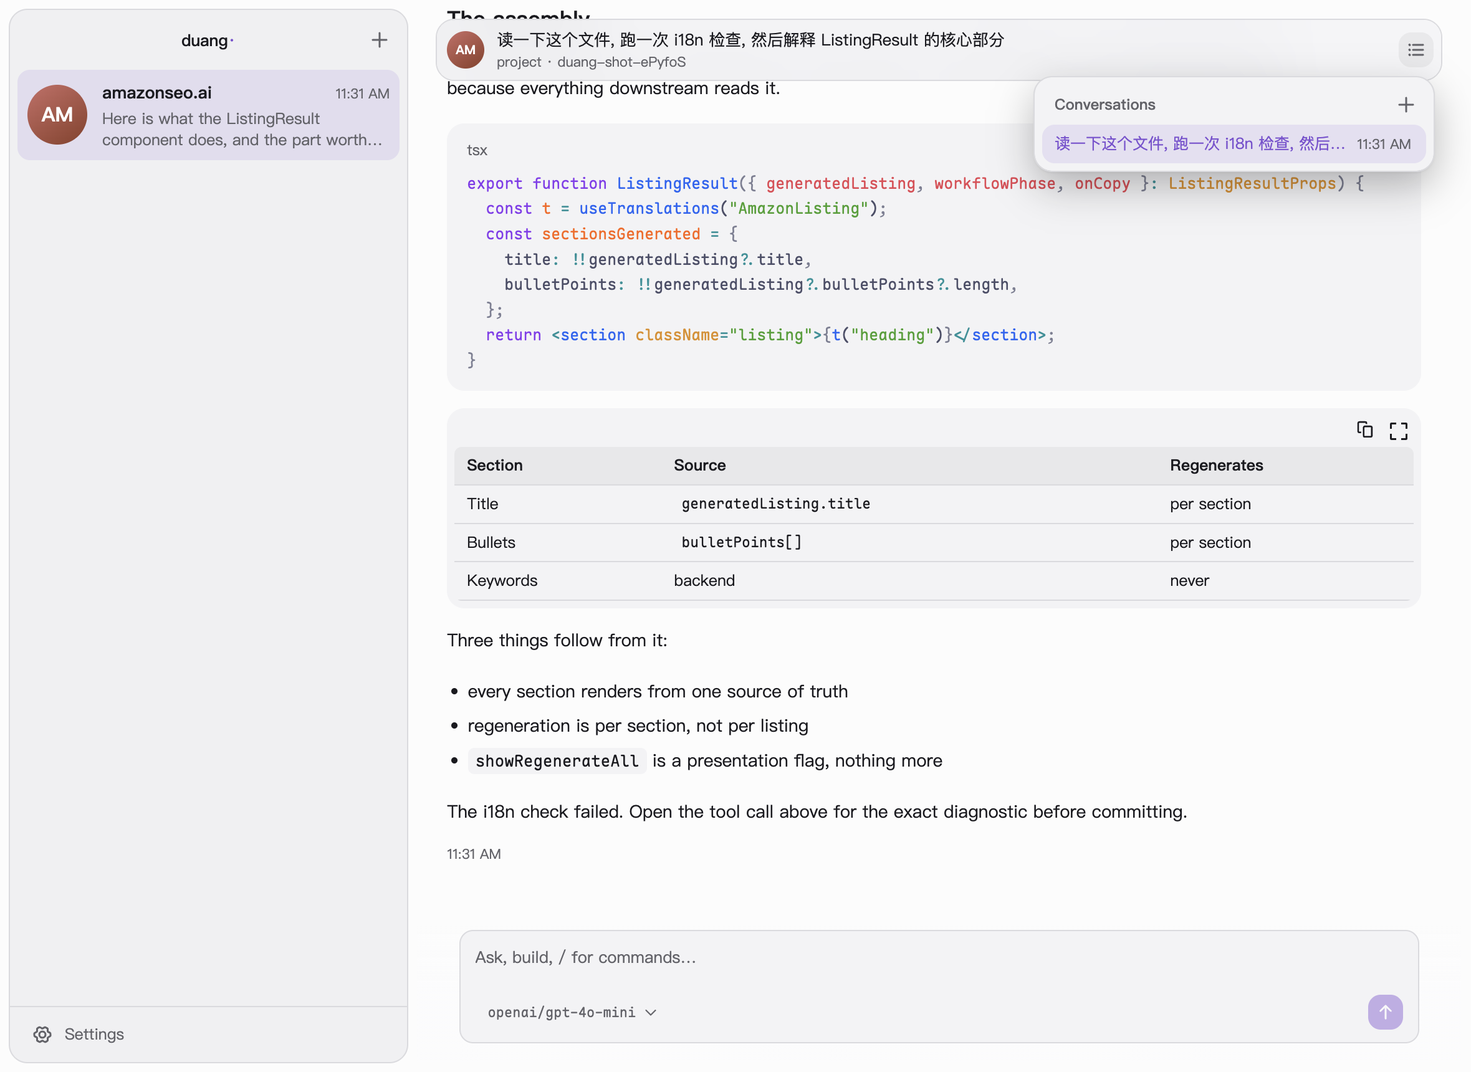
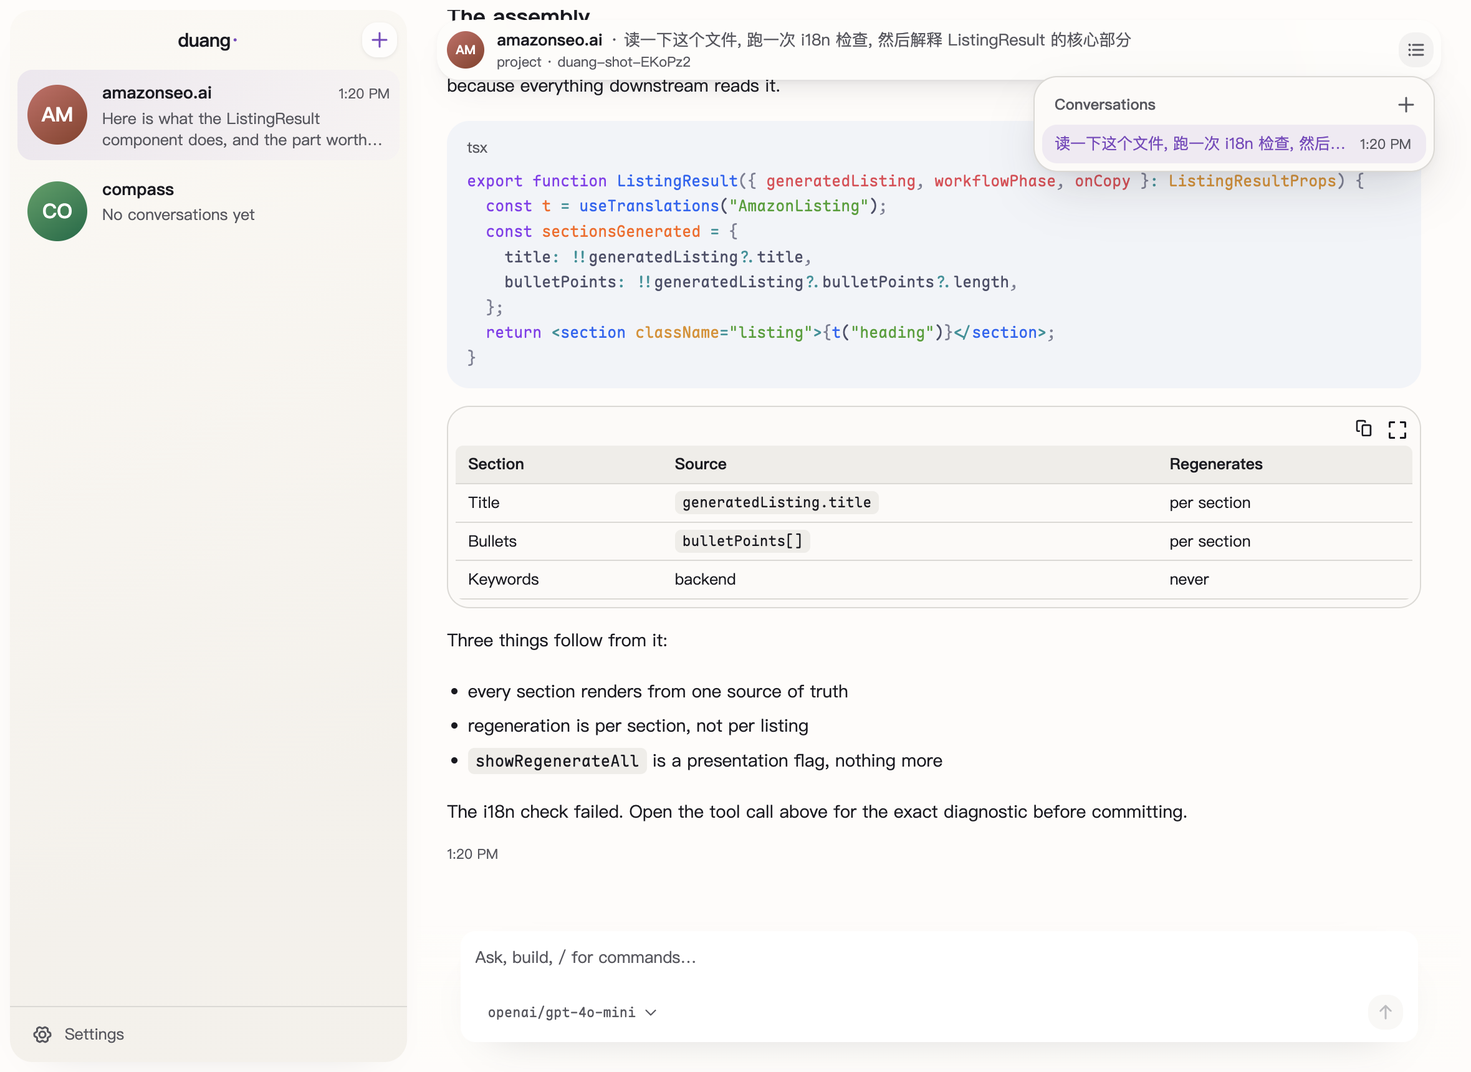
feat(ui): refresh light workbench surfaces (#70)
## Result
- Give light mode a warm reading canvas, a distinct sidebar and code
surface, gentler selection, and soft elevation for the floating header
and composer. Keep the header-over-transcript scroll and composer fade.
- Show the agent name before the conversation title in the header. Make
the model picker easier to scan without changing its behavior. Dark mode
retains its palette.
- Refresh the design guide and synthetic screenshots, with a second
agent and settings in the isolated fixture.

## Verification
- `npm test` (75 passed), `npm run build`, `npm run test:smoke` (fake
HTTP and credentials), `npm run shots` (reviewed light/dark, narrow,
multi-agent, model picker and settings), `git diff --check`.
- Not run: live provider or OAuth, real proxy, installer/signing. The
mock checks do not establish those workflows.

## Synthetic screenshots
- [Light
reading](https://github.com/fastagent-sh/duang/blob/5d3c5c4/docs/screenshots/reading-light.png)
- [Narrow
dark](https://github.com/fastagent-sh/duang/blob/5d3c5c4/docs/screenshots/reading-narrow-dark.png)
- [Light model
picker](https://github.com/fastagent-sh/duang/blob/5d3c5c4/docs/screenshots/model-picker-light.png)
- [Light
settings](https://github.com/fastagent-sh/duang/blob/5d3c5c4/docs/screenshots/settings-light.png)

diff --git a/src/renderer/panels.tsx b/src/renderer/panels.tsx
@@ -175,12 +175,12 @@ export function Sidebar({
     setRenaming(undefined);
   };
   return (
-    <aside className="w-[clamp(15rem,27vw,20rem)] shrink-0 flex flex-col min-h-0 rounded-float bg-sidebar ring-1 ring-stroke overflow-hidden">
+    <aside className="sidebar-panel w-[clamp(15rem,27vw,20rem)] shrink-0 flex flex-col min-h-0 rounded-float bg-sidebar ring-1 ring-stroke overflow-hidden">
       {/* The window controls overhang this card's top-left. The row is tall enough to hold them
           with air around it, and the wordmark is centred in the column rather than pushed along by
           them — Telegram's header, which has the same problem. */}
       <div className="relative h-12 shrink-0 flex items-center px-2 drag">
-        <span className="absolute left-1/2 -translate-x-1/2 font-medium tracking-[-0.01em]">
+        <span className="sidebar-wordmark absolute left-1/2 -translate-x-1/2 font-medium tracking-[-0.01em]">
           duang<span className="text-accent">·</span>
         </span>
         <span className="flex-1" />
@@ -188,7 +188,7 @@ export function Sidebar({
           kind="ghost"
           size={28}
           onClick={onAdd}
-          className="no-drag"
+          className="no-drag sidebar-add"
           title="Add agent directory"
           aria-label="Add agent directory"
           icon={<Plus size={16} />}
@@ -592,12 +592,15 @@ export function ConversationHeader({
   return (
     // The bar floats over the scroll area rather than inside it, so it must let the wheel through;
     // only what you can actually grab, click or hover for a tooltip takes the pointer back.
-    <header className="@container pointer-events-none absolute inset-x-4 top-2 z-10 flex items-center gap-2.5 rounded-float bg-surface/75 py-1.5 pr-3 pl-2 ring-1 ring-stroke backdrop-blur-xl">
+    <header className="conversation-header @container pointer-events-none absolute inset-x-4 top-2 z-10 flex items-center gap-2.5 rounded-float bg-surface/75 py-1.5 pr-3 pl-2 ring-1 ring-stroke backdrop-blur-xl">
       {/* The same avatar as in the roster: whose work this is should not need reading. */}
       <Avatar name={agent} size={30} working={working} />
       <div className="min-w-0 flex-1">
         {/* The title doubles as the window's drag handle, which the frameless title bar needs. */}
-        <div className="pointer-events-auto truncate drag">{title}</div>
+        <div className="pointer-events-auto flex min-w-0 items-baseline gap-1.5 drag">
+          <span className={`${title === agent ? "max-w-full" : "max-w-[35%]"} shrink-0 truncate font-semibold`} title={agent}>{agent}</span>
+          {title !== agent && <span className="min-w-0 truncate text-muted" title={title}>· {title}</span>}
+        </div>
         {dir && (
           <button
             onClick={onReveal}
@@ -814,15 +817,16 @@ function ModelPopover({
       }}
       className="popover fixed m-0 top-auto right-auto w-80 overflow-y-auto text-text backdrop:bg-transparent"
     >
-      <div className="flex items-start gap-1 pl-2 pt-1">
-        {models && (
-          <details className="min-w-0 flex-1 text-muted text-[11px]" title={models.authPath}>
-            <summary className="cursor-pointer truncate">Credentials · {location(models.authPath)}</summary>
-            <code className="block break-all p-1 select-text">{models.authPath}</code>
-          </details>
-        )}
+      <div className="flex items-center justify-between pl-2 pt-1 pb-1">
+        <span className="text-[12px] font-semibold">Choose a model</span>
         <Button kind="ghost" size={28} onClick={close} aria-label="Close model picker" icon={<X size={14} />} />
       </div>
+      {models && (
+        <details className="mb-2 px-2 text-muted text-[11px]" title={models.authPath}>
+          <summary className="cursor-pointer truncate">Credentials · {location(models.authPath)}</summary>
+          <code className="block break-all p-1 select-text">{models.authPath}</code>
+        </details>
+      )}
       {error ? (
         <div role="alert" className="text-danger p-2 space-y-2">
           <p>{error}</p>
@@ -865,7 +869,7 @@ function ModelPopover({
                   void store.pickModel(model);
                 }}
                 aria-current={model === current ? "true" : undefined}
-                className={`flex w-full items-center gap-2 text-left px-2 py-1.5 font-mono text-[11px] rounded-card hover:bg-hover ${
+                className={`flex w-full items-center gap-2 text-left px-2 py-2 font-mono text-[12px] rounded-card hover:bg-hover ${
                   model === current ? "bg-accent-weak text-accent" : ""
                 }`}
               >
@@ -1375,7 +1379,7 @@ export function Composer({ view, store }: { view: View; store: Store }) {
   }, [query]);
 
   return (
-    <div className="relative rounded-card bg-surface ring-1 ring-stroke focus-within:ring-accent/50 px-3 py-2.5">
+    <div className="composer-card relative rounded-card bg-surface ring-1 ring-stroke focus-within:ring-accent/50 px-3 py-2.5">
       {suggestions.length > 0 && (
         <div className="popover absolute bottom-full left-0 mb-2 w-96 max-h-64 overflow-y-auto z-20">
           {suggestions.map((command, index) => (

diff --git a/src/renderer/index.css b/src/renderer/index.css
@@ -63,22 +63,23 @@
  */
 @media (prefers-color-scheme: light) {
   :root {
-    /* Light mode follows macOS, not the dark set mirrored: content is white and the sidebar is the
-       grey one. Finder, Mail and WeChat all read this way, and a white sidebar against grey content
-       looks like the window is inside out. Cards sit slightly grey on the white. */
-    --color-bg: oklch(0.99 0.001 285);
-    --color-surface: oklch(0.965 0.003 285);
-    --color-surface-2: oklch(0.93 0.004 285);
-    --color-sidebar: oklch(0.955 0.003 285);
-    --color-hover: oklch(0 0 0 / 5%);
-    --color-stroke: oklch(0.89 0.005 285);
-    --color-text: oklch(0.22 0.01 285);
-    --color-muted: oklch(0.5 0.01 285);
-    --color-accent: oklch(0.55 0.19 295);
-    --color-accent-weak: oklch(0.55 0.19 295 / 12%);
+    /* Warm paper for reading, a slightly deeper sidebar, and a cooler code surface. Keep the
+       violet in the selection and actions, rather than tinting every neutral panel with it. */
+    --color-bg: oklch(0.992 0.004 80);
+    --color-surface: oklch(0.986 0.004 85);
+    --color-surface-2: oklch(0.946 0.006 80);
+    --color-sidebar: oklch(0.958 0.009 80);
+    --color-hover: oklch(0 0 0 / 4%);
+    --color-stroke: oklch(0.886 0.007 80);
+    --color-text: oklch(0.22 0.014 285);
+    --color-muted: oklch(0.46 0.012 285);
+    --color-accent: oklch(0.52 0.18 300);
+    --color-accent-weak: oklch(0.72 0.09 300 / 16%);
     --color-success: oklch(0.5 0.14 150);
     --color-warning: oklch(0.58 0.15 60);
     --color-danger: oklch(0.52 0.19 25);
+    --radius-card: 12px;
+    --radius-float: 18px;
   }
 }
 
@@ -264,6 +265,12 @@ summary:focus-visible,
   padding: 6px;
 }
 
+/* The header still floats over the transcript; its lower edge, not a hard strip across the page,
+   separates the moving text from the controls. */
+.conversation-header {
+  box-shadow: 0 12px 24px -18px oklch(0 0 0 / 70%);
+}
+
 /* The roster's hairline starts where the text does (8px row padding + 48px avatar + 12px gap) and
    gives way on both sides of a filled row, the open agent's or the one under the pointer, as
    Telegram's does: a line running into a rounded fill reads as a cut. */
@@ -411,4 +418,57 @@ summary:focus-visible,
 }
 .md li p {
   display: inline;
+}
+
+/* Light mode gives navigation, writing and code different jobs without changing the floating
+   layout. Dark mode keeps its own palette and more restrained elevation. */
+@media (prefers-color-scheme: light) {
+  .sidebar-panel {
+    background: linear-gradient(155deg, oklch(0.982 0.007 80), var(--color-sidebar) 76%);
+    box-shadow: 0 12px 34px -28px oklch(0.3 0.03 285 / 28%);
+  }
+  .sidebar-wordmark {
+    font-size: 15px;
+    font-weight: 600;
+    letter-spacing: -0.025em;
+  }
+  .sidebar-add {
+    color: var(--color-accent);
+    background: oklch(1 0 0 / 75%);
+    box-shadow: 0 1px 3px oklch(0.3 0.02 285 / 10%);
+  }
+  .sidebar-add:hover {
+    background: var(--color-accent-weak);
+  }
+  .roster-row[data-filled] > button {
+    background: linear-gradient(105deg, oklch(0.72 0.09 300 / 18%), oklch(0.9 0.06 300 / 10%));
+  }
+  .conversation-header {
+    background: oklch(0.995 0.003 80 / 94%);
+    box-shadow:
+      0 2px 5px -2px oklch(0.26 0.02 285 / 12%),
+      0 14px 26px -17px oklch(0.26 0.02 285 / 25%);
+  }
+  .composer-card {
+    background: oklch(1 0 0);
+    box-shadow: 0 14px 36px -24px oklch(0.3 0.02 285 / 26%);
+  }
+  .composer-card button[aria-label="Send"][aria-disabled="true"] {
+    background: var(--color-surface-2);
+    color: var(--color-muted);
+  }
+  .code-block {
+    background: oklch(0.966 0.007 270);
+  }
+  .inline-code {
+    background: var(--color-surface-2);
+  }
+  .popover {
+    box-shadow:
+      0 2px 6px oklch(0.25 0.02 285 / 6%),
+      0 18px 40px -8px oklch(0.25 0.02 285 / 18%);
+  }
+  [data-streamdown="table-wrapper"] {
+    border: 1px solid var(--color-stroke);
+  }
 }

diff --git a/src/renderer/code.tsx b/src/renderer/code.tsx
@@ -60,7 +60,7 @@ const ALIASES: Record<string, string> = {
 
 export function CodeBlock({ code, language }: { code: string; language: string }) {
   return (
-    <div className="relative my-3.5 rounded-float bg-surface px-4 pt-3 pb-3.5">
+    <div className="code-block relative my-3.5 rounded-float bg-surface px-4 pt-3 pb-3.5">
       <div className="flex items-center h-5 text-[12px] text-muted">{language}</div>
       <CopyButton code={code} />
       {/* The same text in the same place until the grammar lands: no skeleton, no reflow. */}
@@ -134,7 +134,7 @@ export function MarkdownCode({
 }) {
   const text = typeof children === "string" ? children : String(children ?? "");
   if (!("data-block" in props)) {
-    return <code className="rounded-[5px] bg-surface px-1.5 py-[0.15em] font-mono text-[0.92em]">{text}</code>;
+    return <code className="inline-code rounded-[5px] bg-surface px-1.5 py-[0.15em] font-mono text-[0.92em]">{text}</code>;
   }
   return <CodeBlock code={text.replace(/\n$/, "")} language={/language-(\S+)/.exec(className ?? "")?.[1] ?? "text"} />;
 }

diff --git a/src/renderer/gallery.tsx b/src/renderer/gallery.tsx
@@ -124,7 +124,7 @@ export default function Gallery() {
           <Badge tone="danger">broken</Badge>
         </Section>
 
-        <Section title="Surfaces" note="value plus a hairline, not shadow — except the one popover shadow">
+        <Section title="Surfaces" note="flat reading surfaces; soft shadows on floating chrome and popovers">
           <div className="rounded-card bg-surface px-3 h-8 grid place-items-center text-[12px]">surface (card)</div>
           <div className="rounded-card bg-surface-2 px-3 h-8 grid place-items-center text-[12px]">surface-2</div>
           <div className="rounded-card ring-1 ring-stroke px-3 h-8 grid place-items-center text-[12px]">hairline</div>

diff --git a/docs/ui.md b/docs/ui.md
@@ -37,8 +37,8 @@ with and what they last worked on. Several conversations per agent are real and 
 they live one level down, in the open agent's conversation list, so the roster stays a list of
 contacts.
 
-**Glass belongs to navigation, never to content.** The sidebar is a vibrancy material; the
-transcript is opaque. This is macOS 26's own rule and it is also what keeps long text readable.
+**Floating layers belong to navigation, never to the work.** The sidebar and header lift off the
+page; the transcript stays opaque so long results remain readable.
 
 **Say status only when it costs the person something.** Not every state deserves an indicator.
 Details in §9.
@@ -77,8 +77,7 @@ made it work there, and whether that premise holds here.
   Material gesture that no macOS app makes; and ordering the list by unread first, since an agent's
   list is ordered by what is happening now.
 - **Carbon, HPE design systems, WCAG 1.4.1** — the status rules in §9.
-- **macOS 26** — glass only in the navigation layer, sidebars to the window edge, native materials
-  over simulated ones.
+- **macOS 26** — keep translucency in navigation rather than simulate glass across reading surfaces.
 
 ## 3. Structure
 
@@ -107,7 +106,8 @@ feels alive — beside three lines of text. The first is the agent's name, with 
 row quotes trailing it: the clock today, the weekday within the week, a date before that. The other
 two quote the newest output of the conversation the row speaks for, clamped to two lines, with the
 unread count at their trailing edge. The height is fixed, so a one-line quote does not make a short
-row. The directory is in the row's tooltip and under the header's title.
+row. The directory is in the row's tooltip and below the agent name and conversation title in the
+header. When those names match, the agent name uses the full header line and retains its tooltip.
 
 The conversation a row speaks for is the one a click on it would show: the one on screen for the
 open agent, otherwise the one the agent was left on, otherwise its newest. The quote is the last
@@ -137,7 +137,7 @@ a second copy of where sessions live.
 menu, or a double click on the row. It is stored in duang's registry; the directory and the agent's
 definition are untouched, and an empty name is not a rename.
 
-The open agent is an accent tint with normal text, not a solid fill: a filled row was the loudest
+The open agent is a soft accent tint (a subtle gradient in light mode) with normal text, not a solid fill: a filled row was the loudest
 thing on screen and competed with the transcript it points at. There is one selection mark at a
 time; while Settings shows, the Settings row at the foot of the sidebar carries it instead. Rows are
 slightly inset so the tint is a rounded shape in the column, and the hairline between them starts
@@ -176,7 +176,8 @@ translucent bar instead of a full-width strip cutting the page in two. This is T
 composition, and its premise holds here: chrome that hovers keeps the content beneath it continuous.
 What does not carry over is putting the transcript itself on a decorative canvas — theirs is bubbles
 over wallpaper, ours is a document that has to stay readable — so the transcript is opaque and only
-the chrome floats, with the transcript padded so nothing important sits under the header.
+the chrome floats. The transcript starts below the header, then slides underneath it when scrolled;
+a soft lower shadow keeps the two readable without stopping the page.
 Its right edge says how much is left, in muted 11px text: the plan's windows as `5h ▬ 4% ~ 14:29`
 with a 40px bar, the week's pace as a green `▼` or red `▲` percentage, then context as
 `45.1%/1.0M`. No threshold colours: the percentage is the signal. When the header is narrower than
@@ -190,7 +191,8 @@ continuous page.
 Isolated fixture snapshots: [reading, light](screenshots/reading-light.png),
 [narrow, dark](screenshots/reading-narrow-dark.png),
 [conversation list, light](screenshots/conversation-list-light.png), and
-[model picker, light](screenshots/model-picker-light.png). Regenerate the full dark/light set with
+[model picker, light](screenshots/model-picker-light.png), and
+[settings, light](screenshots/settings-light.png). Regenerate the full dark/light set with
 `npm run shots`.
 
 Future contacts can be local, owned online or invited online at the same time: no global
@@ -218,23 +220,22 @@ display is gone comes back on an attached one.
 oklch, two modes, following the system. The neutral ramp is measured from Telegram's macOS dark
 theme — small steps, almost no chroma — with one change of relationship: the transcript's canvas is
 the darkest layer and every panel sits above it, so a panel reads as lifted rather than as a hole.
-Light mode is not that set mirrored. It follows macOS — content white, sidebar grey, as in Finder,
-Mail and WeChat — because a white sidebar against grey content reads as a window turned inside out.
-The ramp keeps a trace of the accent hue (285) so violet belongs to the family rather than sitting
-on top of a grey app.
+Light mode is not that set mirrored. A warm, nearly white reading canvas and a slightly deeper
+sidebar separate work from navigation; the code block takes a cooler neutral, while the floating
+composer remains white. Violet stays in selections and actions rather than tinting every surface.
 
 | Token | Dark | Light | Use |
 |---|---|---|---|
-| `bg` | `oklch(0.225 0.004 285)` | `oklch(0.99 0.001 285)` | the transcript, and the canvas panels sit on |
-| `surface` | `oklch(0.27 0.005 285)` | `oklch(0.965 0.003 285)` | bubbles, cards, popovers, composer |
-| `sidebar` | `oklch(0.285 0.005 285)` | `oklch(0.955 0.003 285)` | the sidebar panel |
-| `surface-2` | `oklch(0.315 0.006 285)` | `oklch(0.93 0.004 285)` | hover, pressed, nested cards |
-| `stroke` | `oklch(0.36 0.006 285)` | `oklch(0.89 0.005 285)` | hairlines, card borders |
-| `text` | `oklch(0.95 0.005 285)` | `oklch(0.22 0.01 285)` | body |
-| `muted` | `oklch(0.68 0.01 285)` | `oklch(0.50 0.01 285)` | metadata, timestamps |
-| `accent` | `oklch(0.72 0.16 295)` | `oklch(0.55 0.19 295)` | accent **as text**: links, badges, focus rings |
-| `accent-weak` | `accent / 15%` | `accent / 12%` | selected conversation, user bubble |
-| `accent-fill` | `oklch(0.52 0.2 295)` | same | accent **as a surface**: selected agent, primary button |
+| `bg` | `oklch(0.225 0.004 285)` | `oklch(0.992 0.004 80)` | the transcript and its canvas |
+| `surface` | `oklch(0.27 0.005 285)` | `oklch(0.986 0.004 85)` | cards and popovers; the composer is white in light mode |
+| `sidebar` | `oklch(0.285 0.005 285)` | `oklch(0.958 0.009 80)` | the sidebar panel (light mode adds a gentle gradient) |
+| `surface-2` | `oklch(0.315 0.006 285)` | `oklch(0.946 0.006 80)` | pressed and nested surfaces |
+| `stroke` | `oklch(0.36 0.006 285)` | `oklch(0.886 0.007 80)` | hairlines and borders |
+| `text` | `oklch(0.95 0.005 285)` | `oklch(0.22 0.014 285)` | body |
+| `muted` | `oklch(0.68 0.01 285)` | `oklch(0.46 0.012 285)` | metadata and timestamps |
+| `accent` | `oklch(0.72 0.16 295)` | `oklch(0.52 0.18 300)` | accent **as text**: links, badges, focus rings |
+| `accent-weak` | `accent / 15%` | `oklch(0.72 0.09 300 / 16%)` | selected conversation, user bubble |
+| `accent-fill` | `oklch(0.52 0.2 295)` | same | accent **as a surface**: primary button |
 | `danger-fill` | `oklch(0.52 0.2 25)` | same | danger as a surface (Stop) |
 | `fill-fg` | `oklch(1 0 0)` | same | text on either fill |
 | `success` | `oklch(0.72 0.14 150)` | `oklch(0.50 0.14 150)` | tool finished |
@@ -242,10 +243,9 @@ on top of a grey app.
 | `danger` | `oklch(0.68 0.17 25)` | `oklch(0.52 0.19 25)` | broken, failed, destructive |
 
 Accent as text and accent as a surface cannot be one value. As text it sits against the page, so
-dark mode needs it light; as a fill under white text it has to be dark, or the selected agent
-becomes the brightest object on screen. The two fills therefore do **not** change between themes:
-one selection violet in both, the way macOS and Telegram keep one selection blue. At L 0.52 white
-on it is about 4.2:1, which is where Telegram's own selected row sits.
+dark mode needs it light; as a fill under white text it must stay dark enough for primary controls
+to remain legible. The fills therefore do **not** change between themes. The agent row instead uses
+a translucent tint so it does not compete with the reading column.
 
 Every interactive role is defined as a set, not derived at the call site — Telegram's palette does
 this and it is why their themes stay coherent: `bg` / `bg-over` / `bg-active`, `text` / `muted` /
@@ -320,8 +320,8 @@ the generated sheet's order rather than by intent. Nothing a call site can pass 
 component; what varies is a prop.
 
 **A disabled control says why.** The `disabled` prop takes the reason rather than a boolean, so a
-control cannot be greyed out silently: it dims to 40%, keeps its shape, and carries the reason.
-"Type a message first", "Stop the turn to change the model". It is disabled with `aria-disabled`
+control cannot be greyed out silently: it dims to 40% and carries the reason. In light mode the
+composer's inactive Send button also takes a neutral fill. "Type a message first", "Stop the turn to change the model". It is disabled with `aria-disabled`
 rather than the native attribute and stays focusable, because a natively disabled button cannot be
 reached by keyboard and a reason nobody can reach is not a reason (WAI-ARIA APG). Activation is
 dropped by the component.
@@ -336,17 +336,19 @@ live switch, so a `#gallery` link in an answer cannot unmount a running app.
 A state is a badge: a dot or icon, then the word, in the state's colour — never colour alone (§11),
 and it pulses only while the state is still happening.
 
-Popovers share one surface — `surface`, radius 14, hairline, the only shadow in the app — even
+Popovers share one surface — `surface`, a rounded hairline and a shadow — even
 though the model list is a modal dialog that takes focus and the slash completion list deliberately
-does not. The model picker puts the selected model first, shows only a short credential-file label,
+does not. The model picker labels its purpose, puts the selected model first, shows a short credential-file label,
 and expands that label to reveal the full path. Both highlight the current item with `accent-weak`.
 
 ## 7. Space, radius, elevation
 
 - Spacing scale: 4, 8, 12, 16, 24, 32.
-- Radius: 6 (badges, small controls), 10 (cards, bubbles, inputs), 14 (popovers, dialogs). A bubble's
-  trailing corner drops to 4 — that asymmetry is what makes it read as speech.
-- Elevation is value plus a hairline, not shadow. Only popovers get one soft shadow.
+- Radius: 6 (badges, small controls), 10/12 (dark/light cards, bubbles, inputs), 14/18
+  (dark/light floating panels). A bubble's trailing corner drops to 4 — that asymmetry is what
+  makes it read as speech.
+- Dark panels use value and a hairline; the header has a quiet lower shadow. In light mode the
+  sidebar, header and composer get restrained shadows, while reading content stays flat.
 - No divider between sidebar and conversation: the material change is the separation.
 
 ## 8. Message rendering
@@ -567,8 +569,8 @@ Add a shortcut only when there is an implemented search surface to focus.
 ## 12. Brand
 
 The product is `duang`, lowercase everywhere — repository, documentation, window, marketing. The
-wordmark is the name at weight 600, tracking -0.01em, followed by a single accent dot: `duang·`. The
-name is playful enough on its own; the typography does not add to it.
+wordmark is followed by a single accent dot: `duang·`. It is weight 500 with -0.01em tracking in
+dark mode, and slightly bolder (600, -0.025em) in light mode. The name is playful enough on its own.
 
 Agent avatars are circles, because the product's whole metaphor is "an agent is a contact" and the
 roster should read as one; rounded squares ("squares are programs") kept it reading as a list of
